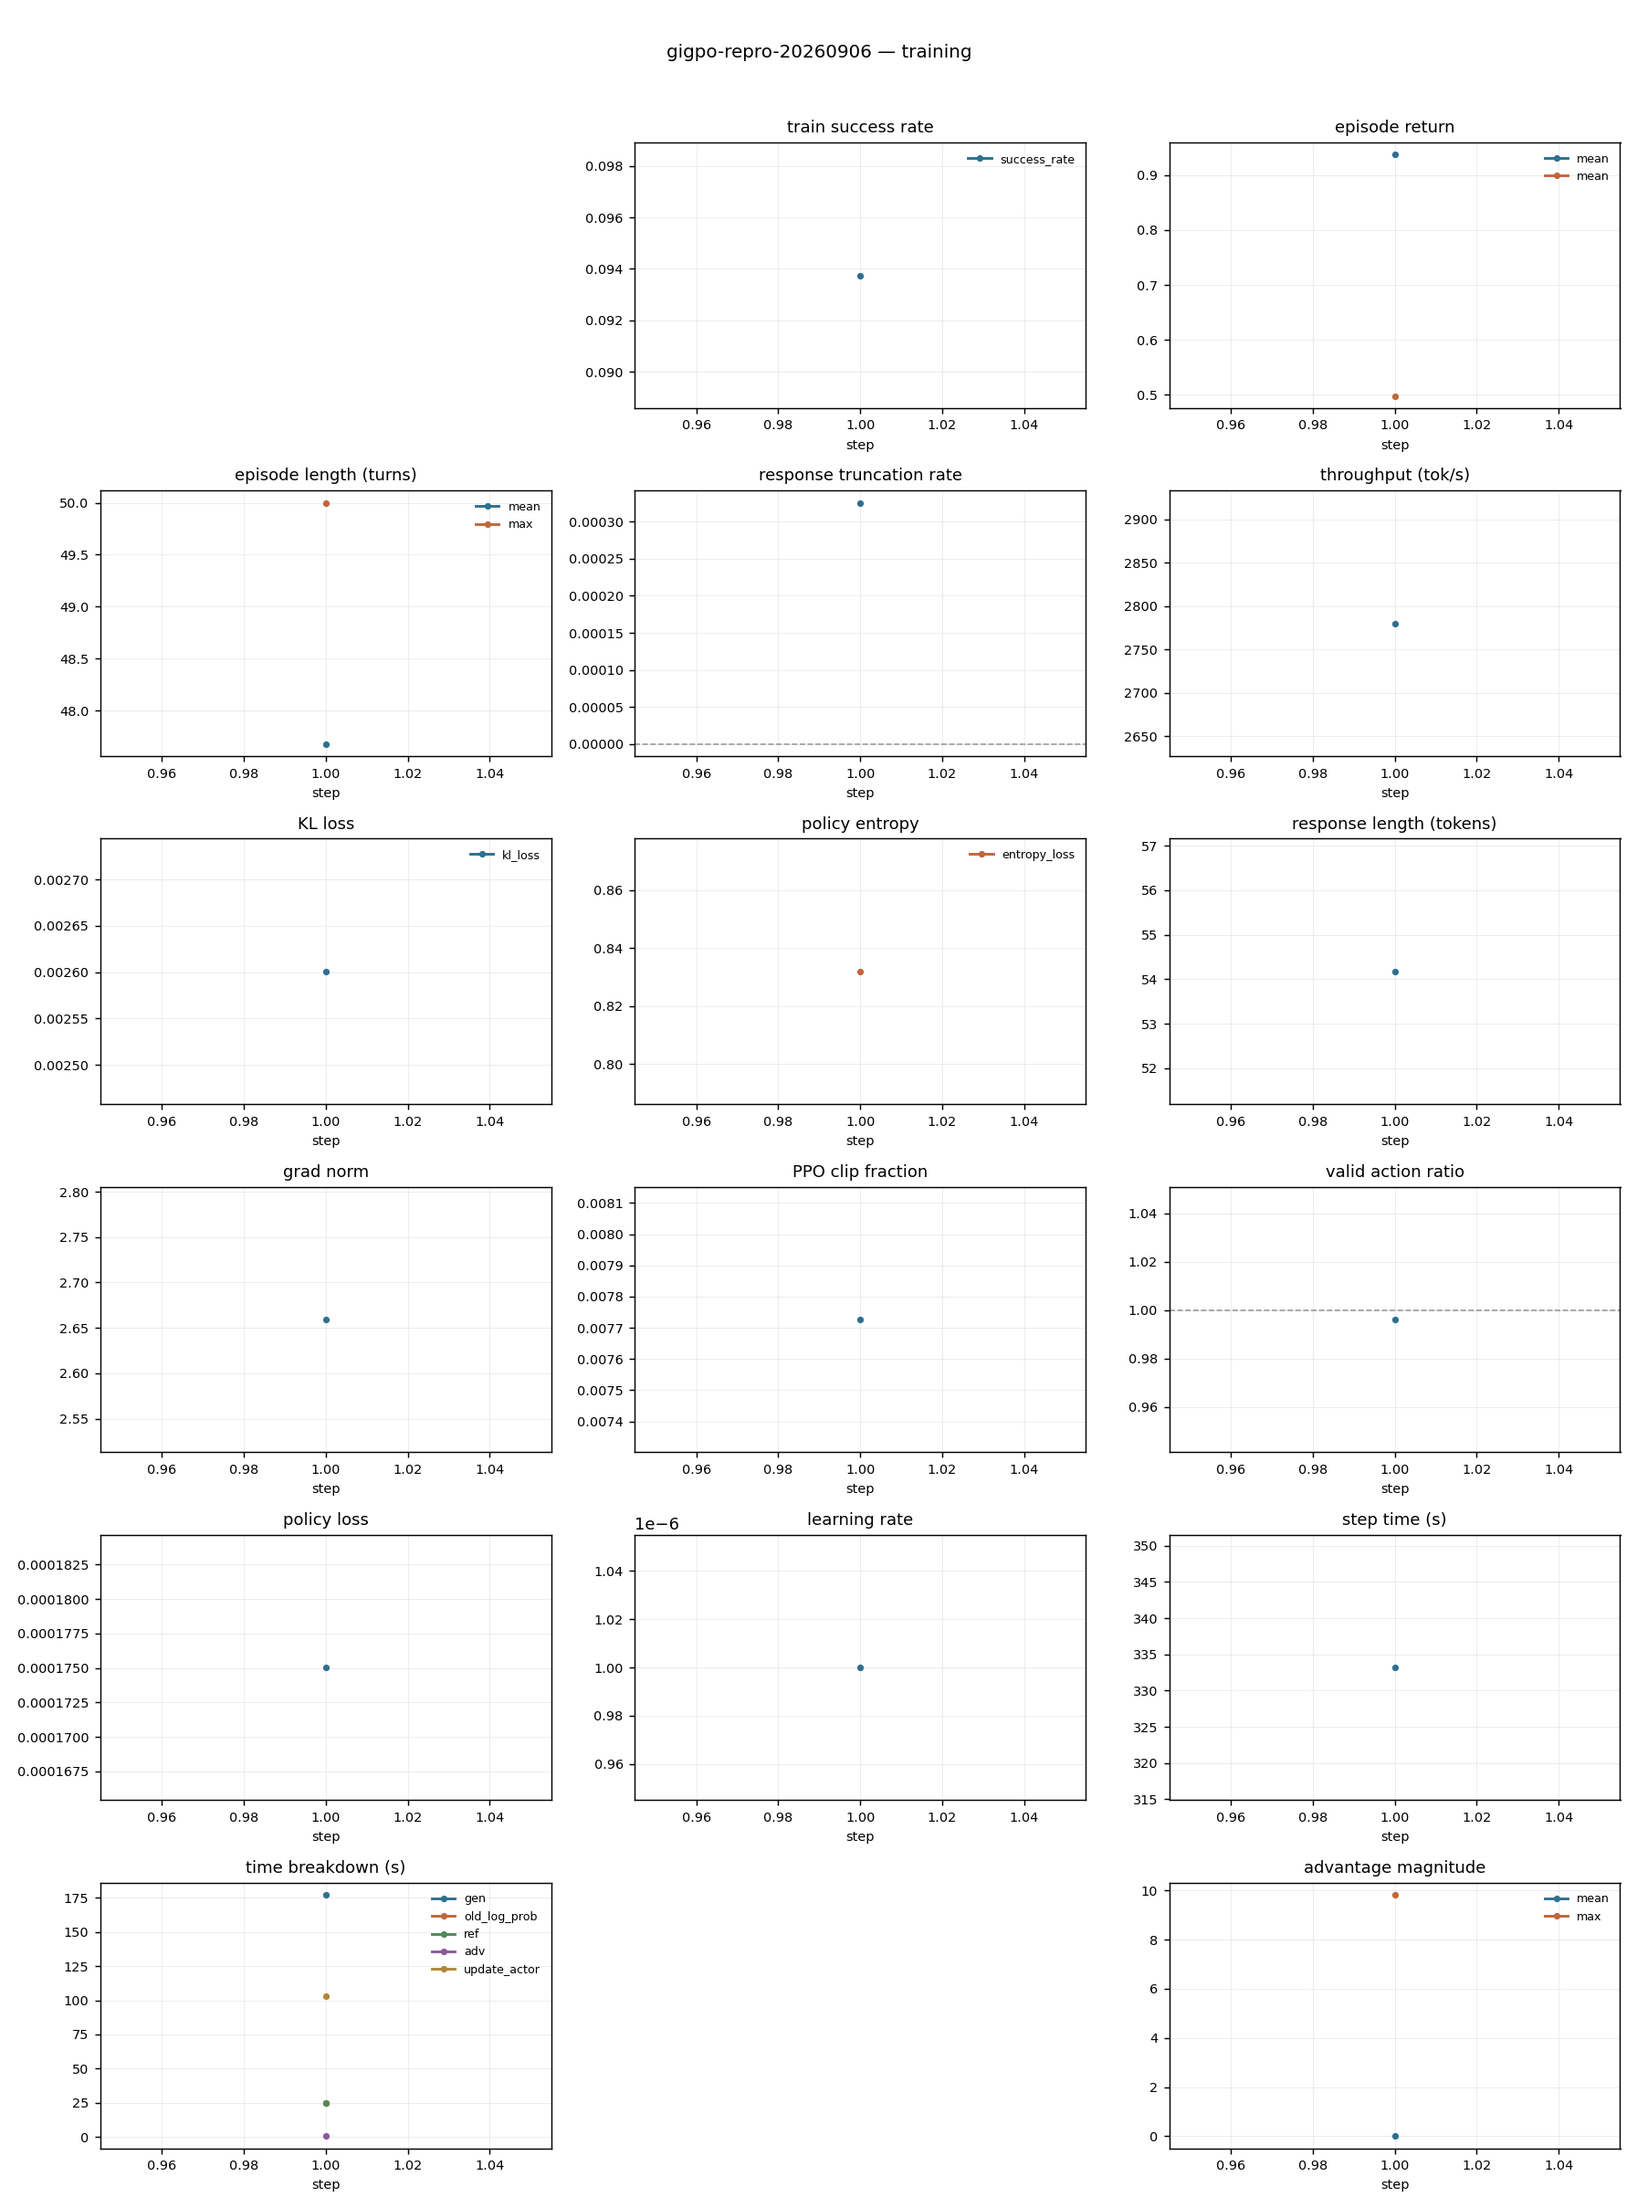
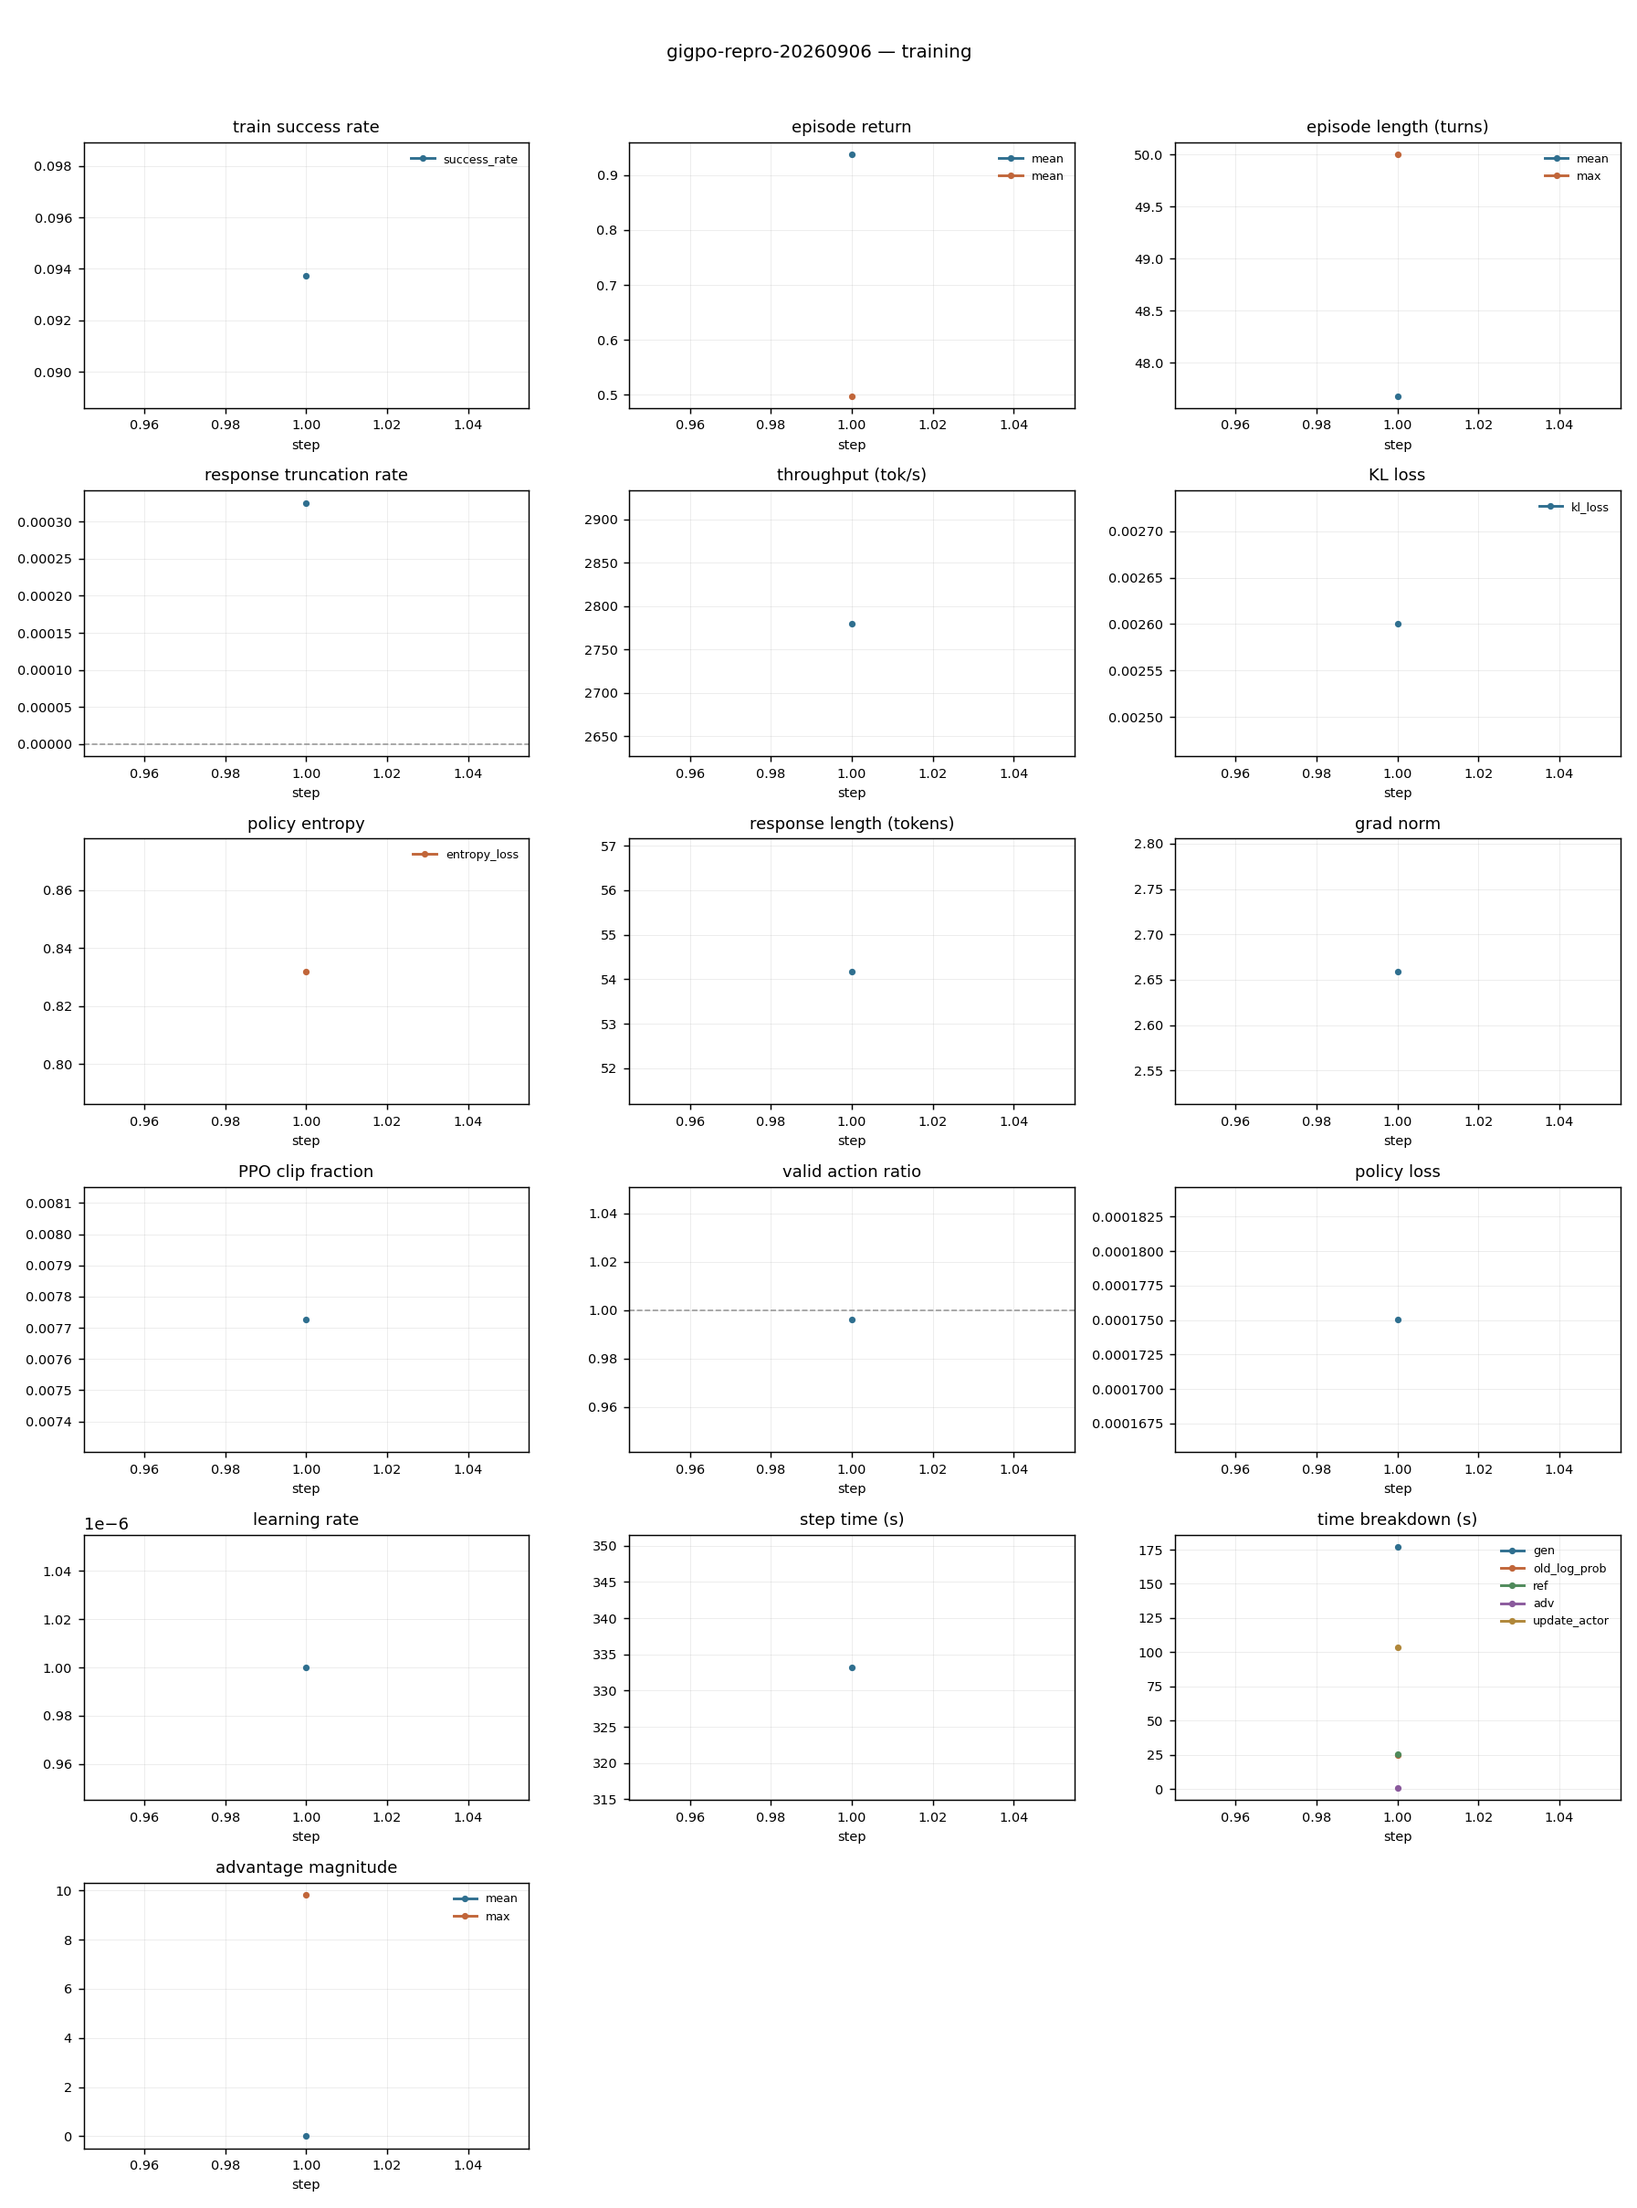
Lay out only the plot panels that have data
A series not yet written -- a held-out score before the first evaluation -- used
to leave a hole in the grid.

diff --git a/scripts/plot_metrics.py b/scripts/plot_metrics.py
@@ -64,16 +64,24 @@ def first_key(rows, *cands):
 
 
 def panel(rows, specs, out, title):
-    n = len(specs)
+    # Lay out only the panels that have data, so a series that has not been
+    # written yet (a held-out score before the first evaluation) does not leave a
+    # hole in the grid.
+    live = []
+    for label, cands, kw in specs:
+        keys = cands if isinstance(cands, (list, tuple)) else [cands]
+        if any(first_key(rows, c) and series(rows, first_key(rows, c))[0] for c in keys):
+            live.append((label, keys, kw))
+    if not live:
+        return False
     ncol = 3
-    nrow = (n + ncol - 1) // ncol
+    nrow = (len(live) + ncol - 1) // ncol
     fig, axes = plt.subplots(nrow, ncol, figsize=(4.6 * ncol, 3.1 * nrow), squeeze=False)
     for ax in axes.flat:
         ax.set_visible(False)
     drew = 0
-    for i, (label, cands, kw) in enumerate(specs):
+    for i, (label, keys, kw) in enumerate(live):
         ax = axes[i // ncol][i % ncol]
-        keys = cands if isinstance(cands, (list, tuple)) else [cands]
         plotted = False
         for j, cand in enumerate(keys):
             k = first_key(rows, cand)
